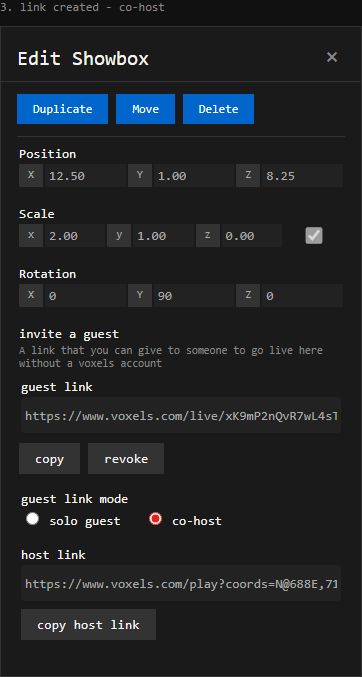
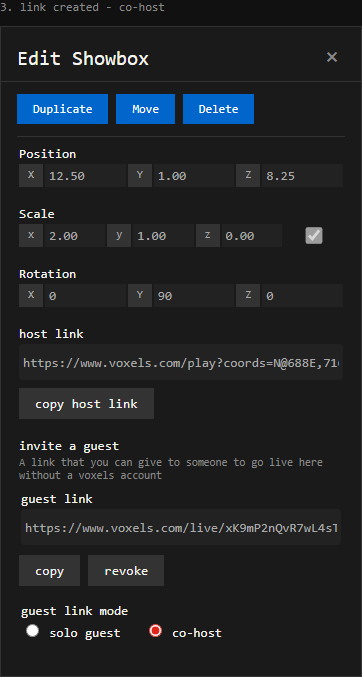
Always show host link at top of showbox guest editor.
Host link is visible in every state (solo and co-host) so owners can bookmark their join URL before creating a guest link.

diff --git a/scripts/showbox-guest-links-preview.html b/scripts/showbox-guest-links-preview.html
@@ -197,6 +197,13 @@
         <div><span>X</span><input type="text" readonly value="0" /><span>Y</span><input type="text" readonly value="90" /><span>Z</span><input type="text" readonly value="0" /></div>
       </div>
     </template>
+    <template id="host-link">
+      <div class="f">
+        <label>host link</label>
+        <input type="text" readonly value="https://www.voxels.com/play?coords=N@688E,716S&show=abc-123&host=1" />
+        <button type="button" style="margin-top: 0.5rem; background: #333; color: #f5f5f0">copy host link</button>
+      </div>
+    </template>
     <h1>showbox editor - guest links (matches current showbox.tsx GuestPasses render)</h1>
     <div class="grid">
       <div class="card" id="state-open">
@@ -208,6 +215,7 @@
           </header>
           <div class="scrollContainer">
             <div data-editor-chrome></div>
+            <div data-host-link></div>
             <div class="f">
               <label>invite a guest</label>
               <small>A link that you can give to someone to go live here without a voxels account</small>
@@ -228,6 +236,7 @@
           </header>
           <div class="scrollContainer">
             <div data-editor-chrome></div>
+            <div data-host-link></div>
             <div class="f">
               <label>invite a guest</label>
               <small>A link that you can give to someone to go live here without a voxels account</small>
@@ -260,6 +269,7 @@
           </header>
           <div class="scrollContainer">
             <div data-editor-chrome></div>
+            <div data-host-link></div>
             <div class="f">
               <label>invite a guest</label>
               <small>A link that you can give to someone to go live here without a voxels account</small>
@@ -278,11 +288,6 @@
                   <label class="inline"><input type="radio" name="mode3" checked /> co-host</label>
                 </div>
               </div>
-              <div class="f">
-                <label>host link</label>
-                <input type="text" readonly value="https://www.voxels.com/play?coords=N@688E,716S&show=abc-123&host=1" />
-                <button type="button" style="margin-top: 0.5rem; background: #333; color: #f5f5f0">copy host link</button>
-              </div>
             </div>
           </div>
         </section>
@@ -297,6 +302,7 @@
           </header>
           <div class="scrollContainer">
             <div data-editor-chrome></div>
+            <div data-host-link></div>
             <div class="f">
               <label>invite a guest</label>
               <small>A link that you can give to someone to go live here without a voxels account</small>
@@ -312,6 +318,9 @@
     <script>
       document.querySelectorAll('[data-editor-chrome]').forEach((slot) => {
         slot.append(document.getElementById('editor-chrome').content.cloneNode(true))
+      })
+      document.querySelectorAll('[data-host-link]').forEach((slot) => {
+        slot.append(document.getElementById('host-link').content.cloneNode(true))
       })
     </script>
   </body>

diff --git a/src/features/showbox.tsx b/src/features/showbox.tsx
@@ -1932,6 +1932,14 @@ class GuestPasses extends Component<{ feature: Showbox; guestMode: GuestMode; on
 
     return (
       <div className="f">
+        <div className="f">
+          <label>host link</label>
+          <input type="text" readOnly value={this.hostJoinUrl()} onClick={(e) => (e.currentTarget as HTMLInputElement).select()} style={mobile ? { fontSize: '16px', minHeight: '44px' } : undefined} />
+          <button type="button" style={mobile ? { minHeight: '44px' } : undefined} onClick={() => this.copy(this.hostJoinUrl())}>
+            copy host link
+          </button>
+        </div>
+
         <label>invite a guest</label>
         <small>A link that you can give to someone to go live here without a voxels account</small>
 
@@ -1983,15 +1991,6 @@ class GuestPasses extends Component<{ feature: Showbox; guestMode: GuestMode; on
                     </label>
                   </div>
                 </div>
-                {this.props.guestMode === 'cohost' && canManage && (
-                  <div className="f">
-                    <label>host link</label>
-                    <input type="text" readOnly value={this.hostJoinUrl()} onClick={(e) => (e.currentTarget as HTMLInputElement).select()} style={mobile ? { fontSize: '16px', minHeight: '44px' } : undefined} />
-                    <button type="button" style={mobile ? { minHeight: '44px' } : undefined} onClick={() => this.copy(this.hostJoinUrl())}>
-                      copy host link
-                    </button>
-                  </div>
-                )}
               </div>
             ))}
           </div>
